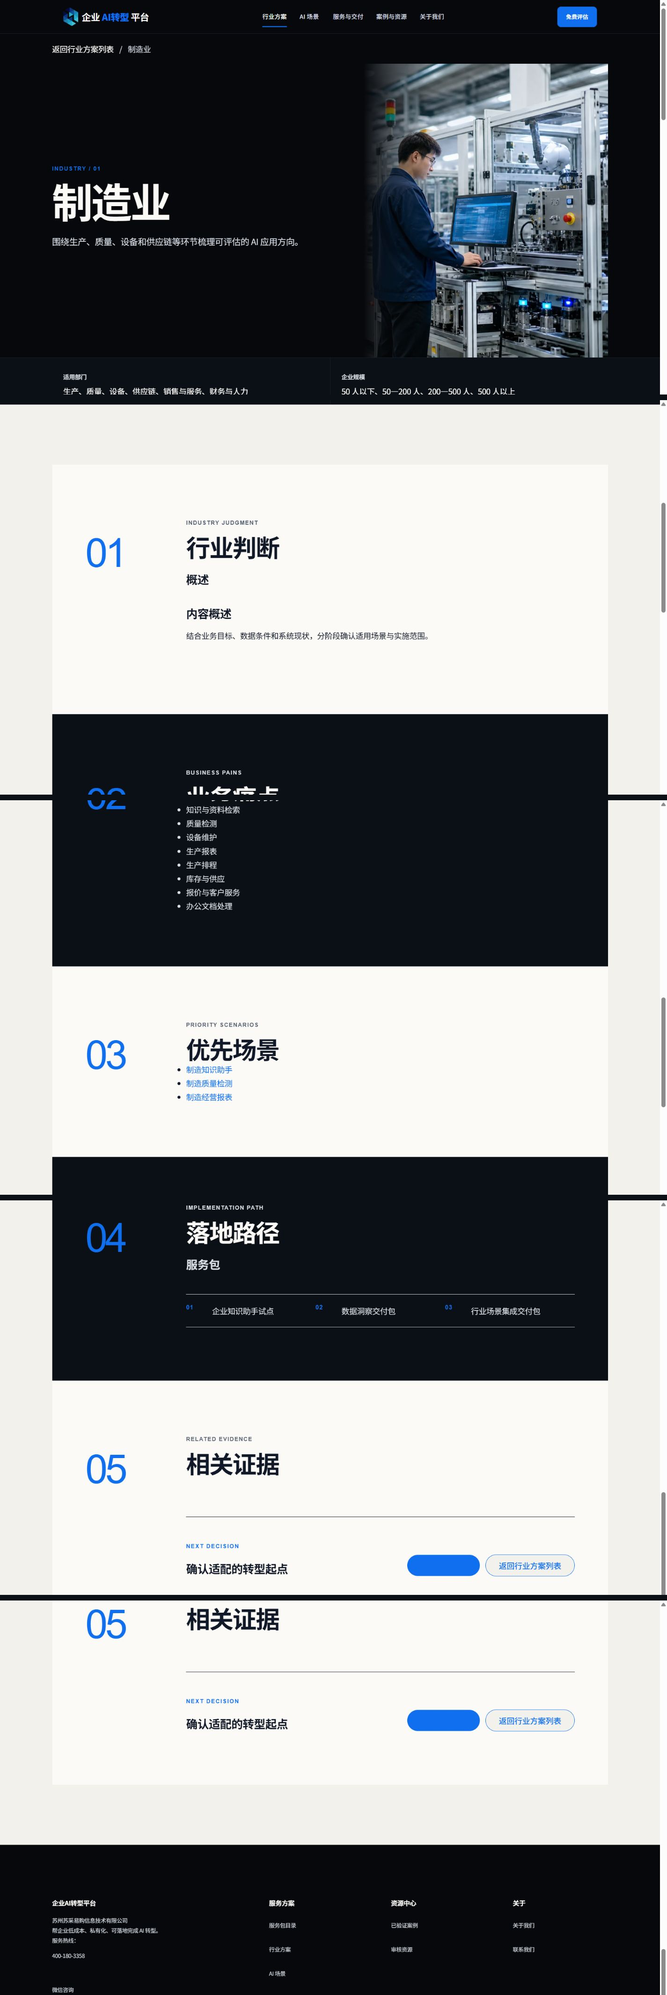
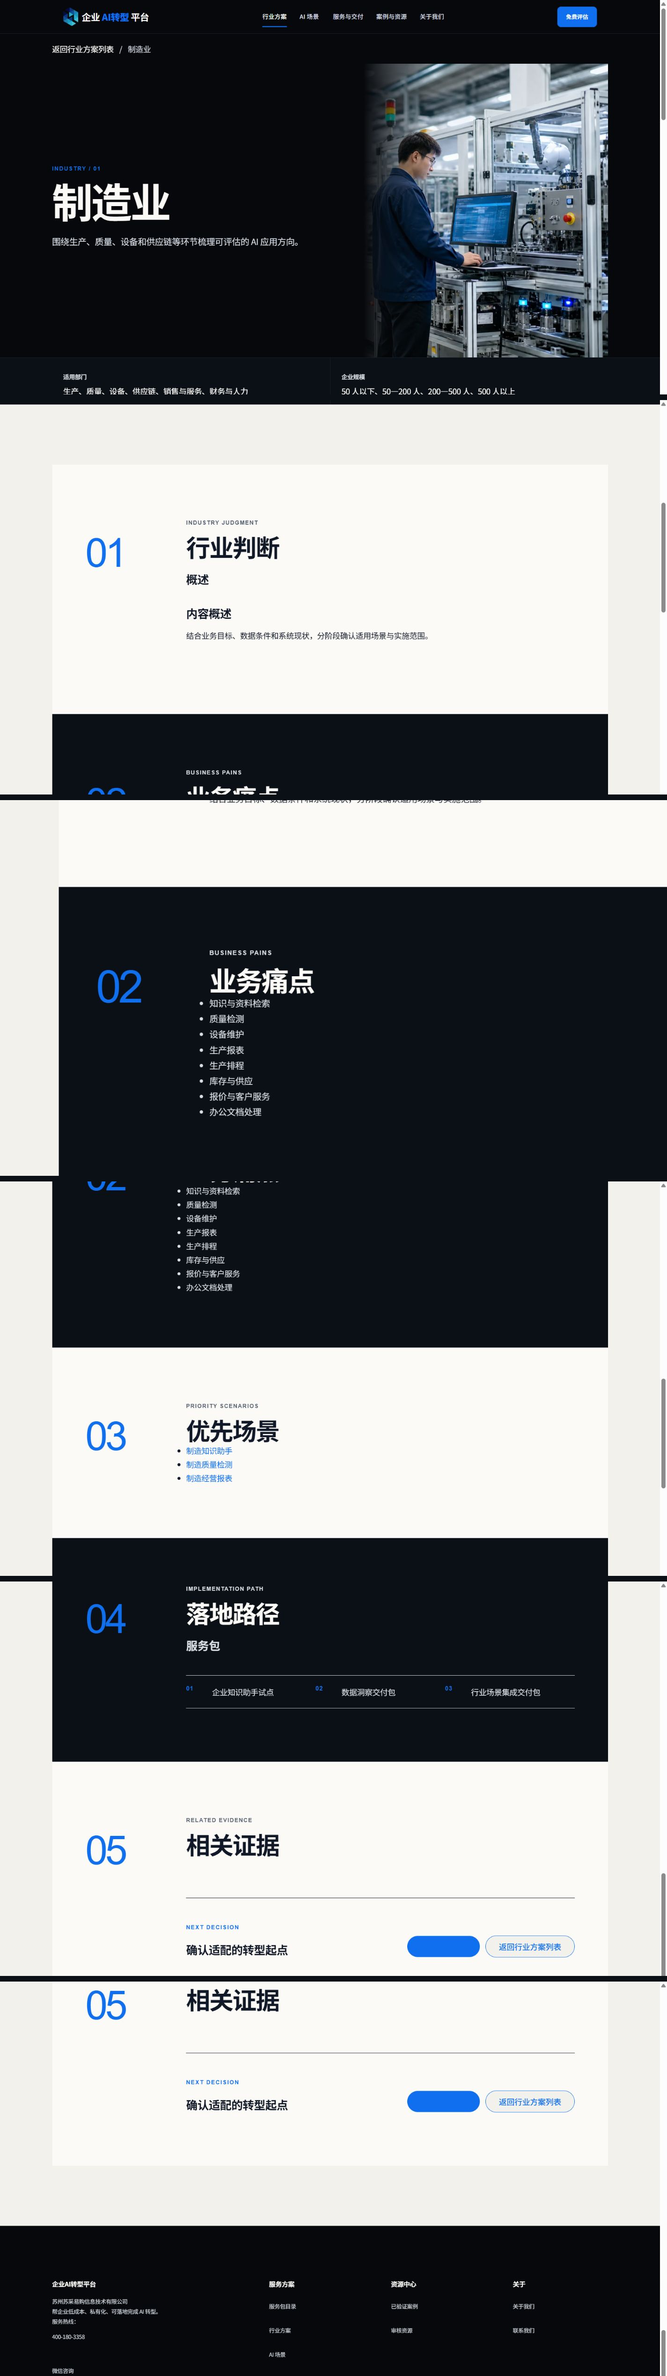
fix: close silver evidence public UI review findings

diff --git a/static/css/silver-evidence-public.css b/static/css/silver-evidence-public.css
@@ -474,8 +474,8 @@
 .decision-detail [data-decision-chapter] > h2 + section h3 { margin-top: 1.5rem; }
 .decision-detail [data-decision-chapter] p,
 .decision-detail [data-decision-chapter] li { line-height: 1.75; }
-.decision-detail [data-decision-chapter] a { color: var(--ui-signal-blue); }
-.decision-detail [data-decision-chapter]:nth-child(even) a { color: var(--ui-paper-000); text-decoration-color: var(--ui-signal-blue); }
+.decision-detail [data-decision-chapter] a:not(.btn) { color: var(--ui-signal-blue); }
+.decision-detail [data-decision-chapter]:nth-child(even) a:not(.btn) { color: var(--ui-paper-000); text-decoration-color: var(--ui-signal-blue); }
 
 .decision-detail .decision-subsection { margin-top: clamp(2rem, 4vw, 3.5rem); }
 .decision-detail .decision-subsection-grid { display: grid; grid-template-columns: repeat(2, minmax(0, 1fr)); gap: clamp(1.5rem, 4vw, 4rem); margin-top: clamp(2rem, 4vw, 3.5rem); }
@@ -656,6 +656,11 @@
     grid-template-columns: 2.75rem minmax(0, 1fr);
     gap: 1rem;
     padding-block: 2.5rem;
+  }
+  .public-shell .public-scenarios .scenario-signal-row .editorial-result-row__meta {
+    grid-column: 2;
+    min-width: 0;
+    width: auto;
   }
 }
 

diff --git a/tests/test_ui_foundations.py b/tests/test_ui_foundations.py
@@ -220,6 +220,18 @@ def _css_declarations(declarations):
     }
 
 
+def _css_specificity(selector):
+    """Return the CSS specificity tuple needed by the public layout contracts."""
+    without_not = selector.replace(":not(", "(")
+    ids = len(re.findall(r"#[a-zA-Z0-9_-]+", without_not))
+    class_like = len(re.findall(r"\.[a-zA-Z0-9_-]+|\[[^\]]+\]", without_not))
+    class_like += len(re.findall(r":(?!:)[a-zA-Z0-9_-]+", without_not))
+    elements = len(
+        re.findall(r"(?:^|[\s>+~(])([a-zA-Z][a-zA-Z0-9_-]*)", without_not)
+    )
+    return ids, class_like, elements
+
+
 def _contrast_ratio(foreground, background):
     def luminance(color):
         channels = [int(color[index : index + 2], 16) / 255 for index in (1, 3, 5)]
@@ -477,6 +489,44 @@ def test_decision_cta_accessible_name_matches_its_visible_label(client, db, path
     assert cta.get("aria-label") in (None, "获取适配建议")
 
 
+def test_decision_chapter_link_color_rules_do_not_override_primary_ctas(client, db):
+    """A later chapter-link rule must not turn a signal-blue CTA's text blue."""
+    db.execute(
+        "UPDATE content_items SET status='published', published_at='2026-08-24 10:00:00' "
+        "WHERE entry_type IN ('industry', 'scenario') AND status='draft'"
+    )
+    db.commit()
+    page = _page(client.get("/industries/manufacturing"))
+    cta = page.select_one(
+        '.decision-detail [data-decision-chapter] a.btn-primary[data-decision-primary-action]'
+    )
+    public_css = client.get("/static/css/public-pages.css").get_data(as_text=True)
+    silver_css = client.get("/static/css/silver-evidence-public.css").get_data(
+        as_text=True
+    )
+    ordinary_selector = ".decision-detail [data-decision-chapter] a:not(.btn)"
+    inverse_selector = (
+        ".decision-detail [data-decision-chapter]:nth-child(even) a:not(.btn)"
+    )
+
+    assert cta is not None
+    assert cta not in page.select(ordinary_selector)
+    assert cta not in page.select(inverse_selector)
+    assert _css_declarations(_css_rule(silver_css, ordinary_selector))["color"] == (
+        "var(--ui-signal-blue)"
+    )
+    assert _css_declarations(_css_rule(silver_css, inverse_selector))["color"] == (
+        "var(--ui-paper-000)"
+    )
+    for selector, expected_color in (
+        (".public-page .btn-primary", "var(--ui-surface-000)"),
+        (".public-page .btn-primary:hover", "var(--ui-graphite-950)"),
+        (".public-page .btn-primary:focus-visible", "var(--ui-graphite-950)"),
+    ):
+        declarations = _css_declarations(_css_rule(public_css, selector))
+        assert declarations["color"] == expected_color
+
+
 def test_shared_navigation_and_footer_use_readable_text_colors(client):
     """The shared shell keeps readable text on its paper and graphite surfaces."""
     tokens = client.get("/static/css/design-tokens.css").get_data(as_text=True)
@@ -574,6 +624,52 @@ def test_decision_detail_css_stacks_the_split_cover_and_fact_strip_on_narrow_scr
     assert fact_item["border-left"] == "0"
     assert desktop_fact_item["min-width"] == "0"
     assert desktop_fact_value["overflow-wrap"] == "anywhere"
+
+
+@pytest.mark.parametrize("viewport_width", (390, 320))
+def test_scenario_mobile_metadata_stays_in_the_body_column(client, db, viewport_width):
+    """At supported phone widths, scenario metadata cannot occupy the 2.75rem index rail."""
+    db.execute(
+        "UPDATE content_items SET status='published', published_at='2026-08-24 10:00:00' "
+        "WHERE entry_type='scenario' AND status='draft'"
+    )
+    db.commit()
+    page = _page(client.get("/scenarios"))
+    metadata = page.select_one(
+        ".public-scenarios .scenario-signal-row .editorial-result-row__meta"
+    )
+    legacy_css = client.get("/static/css/public-pages.css").get_data(as_text=True)
+    silver_css = client.get("/static/css/silver-evidence-public.css").get_data(
+        as_text=True
+    )
+    legacy_selector = (
+        ".public-scenarios .scenario-signal-row .catalog-card-meta"
+    )
+    corrected_selector = (
+        ".public-shell .public-scenarios .scenario-signal-row "
+        ".editorial-result-row__meta"
+    )
+    legacy_mobile = _css_declarations(
+        _css_rule_in_blocks(
+            _css_blocks(legacy_css, "@media (max-width: 767px)"), legacy_selector
+        )
+    )
+    corrected_mobile = _css_declarations(
+        _css_rule_in_blocks(
+            _css_blocks(silver_css, "@media (max-width: 767px)"),
+            corrected_selector,
+        )
+    )
+
+    assert viewport_width <= 767
+    assert metadata is not None
+    assert metadata.name == "dl"
+    assert metadata.select("div > dt + dd")
+    assert legacy_mobile["grid-column"] == "auto"
+    assert _css_specificity(corrected_selector) > _css_specificity(legacy_selector)
+    assert corrected_mobile["grid-column"] == "2"
+    assert corrected_mobile["min-width"] == "0"
+    assert corrected_mobile["width"] == "auto"
 
 
 def test_public_display_titles_balance_lines_and_widen_split_covers_at_large_viewports(client):

diff --git a/tests/test_verified_cases.py b/tests/test_verified_cases.py
@@ -9,6 +9,7 @@ from pypdf import PdfWriter
 import pytest
 
 import models
+import blueprints.public_catalog as public_catalog_blueprint
 import case_repository
 import publishing_repository
 from content_clock import SHANGHAI
@@ -420,8 +421,9 @@ def test_public_source_check_requires_auth_csrf_hash_lock_and_seven_day_freshnes
 
 
 def test_public_source_case_uses_the_exact_public_authenticity_label(
-    admin_client, db
+    admin_client, db, monkeypatch
 ):
+    monkeypatch.setattr(public_catalog_blueprint, "shanghai_now", lambda: NOW)
     source_url = "https://example.com/labeled-public-case"
     draft = _create_case(
         admin_client,

diff --git a/docs/testing/silver-evidence-public-ui.md b/docs/testing/silver-evidence-public-ui.md
@@ -5,7 +5,7 @@
 - Frozen plan base: `d5d8445f0ac1b4425db905062a63330e4764e165`.
 - Verification date: 2026-09-01 (Asia/Shanghai).
 - Surface: Codex in-app Browser only. Chrome, Computer Use, Playwright CLI, production, deployment, external networking, and the repository-wide full suite were not used.
-- Local fixture: `127.0.0.1:51838`; launcher PID `3792`; child listener PID `17188`.
+- Initial fixture: `127.0.0.1:51838`; launcher PID `3792`; child listener PID `17188`. Fix1 used a fresh fixture at `127.0.0.1:55844`, PID `30340`, with the same ignored database/media paths and mock-only source transport.
 - Disposable database/media: `.superpowers/sdd/2026-08-31-silver-evidence-public-ui/task6-browser.db` and `task6-media`.
 - All source checks used `MockSourceTransport`; the content clock was fixed to `2026-08-31T10:00:00+08:00`.
 - Runtime: Python `3.12.13`, Flask `3.1.3`, Werkzeug `3.1.8`, Pillow `12.3.0`, beautifulsoup4 `4.15.0`.
@@ -18,7 +18,7 @@
 $env:PYTHONPATH = (Resolve-Path '.superpowers\sdd\2026-08-24-content-catalog-publishing\local-deps').Path
 $py = 'D:\Codex干活\企业AI转型平台2.0升级\V0.2-server-snapshot-20260819\.venv\Scripts\python.exe'
 $tmpRoot = Join-Path $PWD '.superpowers\sdd\2026-08-31-silver-evidence-public-ui\test-tmp'
-& $py -m pytest tests/test_ui_foundations.py tests/test_public_catalog.py tests/test_public_services.py tests/test_verified_cases.py tests/test_resources_announcements.py tests/test_assessment_wizard.py tests/test_content_navigation.py tests/test_smoke.py tests/test_security_gaps.py tests/test_validation_and_errors.py -q -p no:cacheprovider --basetemp (Join-Path $tmpRoot 'task6-final-scoped-012')
+& $py -m pytest tests/test_ui_foundations.py tests/test_public_catalog.py tests/test_public_services.py tests/test_verified_cases.py tests/test_resources_announcements.py tests/test_assessment_wizard.py tests/test_content_navigation.py tests/test_smoke.py tests/test_security_gaps.py tests/test_validation_and_errors.py -q -p no:cacheprovider --basetemp (Join-Path $tmpRoot 'task6-fix1-final-scoped-017')
 node --check static/js/app.js
 node --check static/js/guided_story.js
 node --check static/js/public_reveal.js
@@ -26,10 +26,11 @@ node --check static/js/assessment.js
 node --test tests/js/app_runtime.test.js tests/js/guided_story_runtime.test.js tests/js/public_reveal_runtime.test.js tests/js/assessment_runtime.test.js tests/js/analytics_runtime.test.js
 ```
 
-- Python: `579 passed in 331.49s (0:05:31)`, exit `0`.
+- Fix1 full Python collection: `581 passed, 1 failed in 312.87s`, exit `1`. The sole failure was an independently reproduced test-clock defect: a source check fixed at `2026-08-25 10:00` expired exactly seven days later while the public request read the real `2026-09-01 11:34` clock, turning a label assertion into the expected fail-closed 404. Production code, the seven-day TTL, and business behavior were unchanged.
+- Authorized test-only clock stabilization fixed that one test's public clock to its existing `NOW`. The isolated test then passed (`1 passed in 0.83s`, `task6-fix1-clock-green-019`), and its complete file partition passed (`31 passed in 18.54s`, `task6-fix1-clock-partition-020`). Thus every one of the 582 collected scoped tests has fresh post-Fix1 pass evidence: 581 in the full run and the repaired case in the fresh partition.
 - Four Node syntax checks: exit `0` each.
-- Node runtime: `34` tests, `34` pass, `0` fail, `0` skipped/cancelled/todo, `duration_ms 325.7764`, exit `0`.
-- The Python run used command-scoped local dependencies, `-p no:cacheprovider`, and unique base temp `task6-final-scoped-012`.
+- Node runtime: `34` tests, `34` pass, `0` fail, `0` skipped/cancelled/todo, `duration_ms 283.0863`, exit `0`.
+- Every Python command used command-scoped local dependencies, `-p no:cacheprovider`, and a unique plan-owned base temp.
 
 The P2 typography contract was demonstrably test-first: its isolated RED failed with `KeyError: 'text-wrap'` (`1 failed in 1.66s`, exit `1`), then GREEN passed (`1 passed in 0.84s`, exit `0`) after the minimal shared CSS correction. Browser verification proved the affected scenario, services, case, and assessment headings/metric no longer leave isolated Chinese characters or horizontal overflow.
 
@@ -37,9 +38,9 @@ The P2 typography contract was demonstrably test-first: its isolated RED failed 
 
 The in-app Browser's `fullPage:true` compositor was rejected because it duplicated sticky/reveal layers and introduced false mobile gaps. DOM counts proved that the duplication was not present in the page. A CDP full-page experiment hung, was aborted, and wrote no file; it was not used again.
 
-Final evidence consists of genuine `fullPage:false` viewport frames captured with native CUA scrolling after `1100ms` initial settle and at least `1050ms` after every scroll. Every frame reported `scrollWidth === clientWidth`; actual scroll positions were within `1px` of their targets. Frames were preserved 1:1, without crop or scale, and placed vertically with a 12px `#0B1016` separator. The separator explicitly identifies frame boundaries; repeated sticky navigation/CTA/rails and 144px overlap are expected evidence-sheet behavior, not claimed seamless page content.
+Final evidence consists of genuine `fullPage:false` viewport frames captured with native CUA scrolling after `1100ms` initial settle and at least `1050ms` after every scroll. Every frame reported `scrollWidth === clientWidth`; actual scroll positions were within `1px` of their targets. Frames were preserved 1:1, without crop or scale, and placed vertically with a 12px `#0B1016` separator. The separator explicitly identifies frame boundaries; repeated sticky navigation/CTA/rails and overlap are expected evidence-sheet behavior, not claimed seamless page content. Fix1 recovered the original desktop frames only at those exact separator boundaries, inserted one new 1425×802 Browser frame for industry chapter 02 and one for service chapter 05, and left every original 1425×842 viewport frame unchanged.
 
-The Browser viewport was set to `1440×1024` or `390×844`. Saved viewport bitmap widths are `1425` and `375` because the Browser excludes its 15px vertical scrollbar from screenshot pixels. Full-height footer coverage is present in every evidence sheet. Three additional centered frames make the resource filter, case audit metadata band, and About chapter 01 wholly reviewable.
+The initial Browser viewport was set to `1440×1024` or `390×844`; its saved bitmaps were `1425×842` and `375×842`. During Fix1 the IAB desktop tab's physical capture surface remained 1425×802, so the two supplemental desktop frames retain that truthful height. The corrected mobile catalog was recaptured through the same IAB CDP session as eight genuine `Page.captureScreenshot` viewport images at 390×896, never as a full-page compositor image. Full-height footer coverage is present in every evidence sheet. Five centered supplemental frames now make the resource filter, case audit metadata band, About chapter 01, industry chapter 02, and service chapter 05 wholly reviewable.
 
 ## Route and evidence matrix
 
@@ -47,18 +48,18 @@ The Browser viewport was set to `1440×1024` or `390×844`. Saved viewport bitma
 |---|---:|---:|---|
 | `/` | 1440×1024 | 6 | `2026-08-31-silver-home-desktop.png` |
 | `/industries` | 1440×1024 | 3 | `2026-08-31-silver-industries-desktop.png` |
-| `/industries/manufacturing` | 1440×1024 | 5 | `2026-08-31-silver-industry-detail-desktop.png` |
+| `/industries/manufacturing` | 1440×1024 | 6 | `2026-08-31-silver-industry-detail-desktop.png` |
 | `/scenarios` | 1440×1024 | 6 | `2026-08-31-silver-scenarios-desktop.png` |
 | `/scenarios/mfg-knowledge-assistant` | 1440×1024 | 6 | `2026-08-31-silver-scenario-detail-desktop.png` |
 | `/service-packages` | 1440×1024 | 5 | `2026-08-31-silver-services-desktop.png` |
-| `/service-packages/foundation-workshop` | 1440×1024 | 7 | `2026-08-31-silver-service-detail-desktop.png` |
+| `/service-packages/foundation-workshop` | 1440×1024 | 8 | `2026-08-31-silver-service-detail-desktop.png` |
 | `/cases` | 1440×1024 | 2 | `2026-08-31-silver-cases-desktop.png` |
 | `/cases/verified-automation-case` | 1440×1024 | 5 | `2026-08-31-silver-case-detail-desktop.png` |
 | `/resources` | 1440×1024 | 4 | `2026-08-31-silver-resources-desktop.png` |
 | `/resources/external-evidence-dossier` | 1440×1024 | 3 | `2026-08-31-silver-resource-detail-desktop.png` |
 | `/assessment` | 1440×1024 | 3 | `2026-08-31-silver-assessment-desktop.png` |
 | `/about` | 1440×1024 | 5 | `2026-08-31-silver-about-desktop.png` |
-| `/scenarios` | 390×844 | 17 | `2026-08-31-silver-scenarios-mobile.png` |
+| `/scenarios` | 390×896 Fix1 capture | 8 | `2026-08-31-silver-scenarios-mobile.png` |
 | `/scenarios/mfg-knowledge-assistant` | 390×844 | 9 | `2026-08-31-silver-scenario-detail-mobile.png` |
 | `/assessment` | 390×844 | 4 | `2026-08-31-silver-assessment-mobile.png` |
 
@@ -73,14 +74,14 @@ The Browser viewport was set to `1440×1024` or `390×844`. Saved viewport bitma
[15 lines of base64/hex data omitted]
 
 All sixteen files have a PNG signature and were opened and inspected after final compositing.
@@ -92,7 +93,8 @@ All sixteen files have a PNG signature and were opened and inspected after final
 - The five list pages were compared together. They share the same 1280px alignment, dark art cover, warm-white editorial rows, thin rules, low radius, and single blue accent. Scenario/resource filters, service category boundaries, and the one-item case layout remain functionally distinct without reverting to a generic card matrix.
 - Industry/scenario/service decision details were compared together. All retain truthful fact strips and five numbered alternating chapters while allowing content-specific density and imagery.
 - Case/resource details, assessment, and About were compared together. Their review dossier, conversion wizard, and manifesto structures remain distinct but coherent through the same palette, typography, spacing, and line discipline.
-- Final judgment: no open P0, P1, or P2. The four heading/metric P2s found in the first comparison wave were closed through RED/GREEN plus fresh same-viewport and full-route evidence.
+- Fix1 closed two further P2s through fresh RED/GREEN and IAB evidence. Industry, scenario, and service primary decision CTAs compute to white `rgb(255,255,255)` text on signal-blue `rgb(15,111,239)` backgrounds. Scenario metadata at 390px occupies 298.4px with 210.4px `dd` values; at 320px it occupies 220.8px with 132.8px `dd` values. Both use `horizontal-tb`, naturally wrap, and keep `scrollWidth === clientWidth`.
+- Final judgment: no open P0, P1, or P2. The title/metric, CTA cascade, mobile metadata, and incomplete-frame P2s were closed through RED/GREEN plus fresh same-viewport and full-route evidence.
 
 ## Native interaction and accessibility truth
 
@@ -101,6 +103,8 @@ All sixteen files have a PNG signature and were opened and inspected after final
 | Responsive route structure | PASS | 25 representative route/viewport checks across 1440, 1024, 910, 390, and 320 each retained one `h1`, one `main`, one `nav`, and `scrollWidth === clientWidth`. |
 | Desktop navigation and real link journey | PASS | Scenario nav → `/scenarios` → title link → `/scenarios/mfg-knowledge-assistant`; service nav → `/service-packages`; case nav → `/cases` → title link → `/cases/verified-automation-case`; header assessment action → `/assessment`. These were real clicks, separate from the direct-navigation viewport matrix. |
 | Detail-to-assessment link | PASS | Scenario detail `获取适配建议` was clicked to `/assessment`, where the landing `h1` was `企业 AI 就绪度评估`. |
+| Decision CTA contrast | PASS | Industry, scenario, and service primary CTAs each compute to white text on signal-blue and remain approximately 157×46px with no horizontal overflow. |
+| Scenario mobile metadata | PASS | At 390 and 320, metadata occupies the body column, uses horizontal writing, retains useful `dd` width, and no longer forms per-character vertical columns. The eight-frame 390 sheet reaches the complete footer. |
 | Scenario filter | PASS | `manufacturing + pilot` returned 3 real rows. |
 | Scenario empty state and reset | PASS | `manufacturing + marketing + collaborate` returned 0 with the real empty state; clear/reset restored 12 rows. |
 | Resource filter | PASS | `guide` returned 3 real rows. |
@@ -119,14 +123,16 @@ All sixteen files have a PNG signature and were opened and inspected after final
 | Pagination | NOT PROVEN / not applicable to fixture | The deterministic fixture contains 12 scenarios while the UI's minimum `per_page` is 20, so it has no second page to exercise. |
 | Complete assessment next/back journey | NOT PROVEN | After industry selection, the disposable fixture returned `评估选项暂时无法加载`. The recoverable error and retained selection are proven; six-step advance/back is not. |
 
-The keyboard and zoom entries are capability limitations, not PASS claims. Automated runtime coverage (`579` Python and `34` Node tests) is supporting evidence only and is not substituted for native interaction.
+The keyboard and zoom entries are capability limitations, not PASS claims. Automated runtime coverage (all `582` scoped Python cases with fresh pass evidence and `34` Node tests) is supporting evidence only and is not substituted for native interaction.
 
 ## Cleanup
 
 - The in-app Browser reduced-motion override was reset (`matchMedia` false), the viewport emulation was reset, and the acceptance tab was closed.
 - Before stop, `netstat` identified only `127.0.0.1:51838 LISTENING 3792` for the fixture. PID `3792` was stopped precisely; the related launcher/runtime PID `17188` is also no longer alive.
 - Final proof: `ProcessAlive=False`, no `:51838` listener in `netstat`, and HTTP `/health` failed with a refused connection.
+- Fix1 cleanup: IAB `Emulation.clearDeviceMetricsOverride` returned `{}`, the QA tab returned `tab closed`, and no acceptance tab/override remained. `netstat` identified only `127.0.0.1:55844 LISTENING 30340`; that exact PID was stopped. Final proof was `ProcessAlive=False`, `ListenerPresent=False`, and HTTP refused the connection.
 - Exact plan-owned scratch paths were checked to resolve below `.superpowers/sdd/2026-08-31-silver-evidence-public-ui/`, then removed: `task6-browser.db` (plus absent `-wal`/`-shm` companions), `task6-media`, `task6-raw`, and `test-tmp`. Every target reports `exists_after=False`.
+- Fix1 also removed only the exact plan-owned `task6-browser` raw-capture directory after the three accepted evidence sheets were written and inspected. Helpers, reports, references, and accepted evidence were preserved.
 - Accepted `docs/design/evidence/*.png`, testing documentation, and the ignored Task 6 report/helpers were preserved. No broad deletion or production/external state was touched.
 
 ## Limitations

diff --git a/design-qa.md b/design-qa.md
@@ -25,10 +25,13 @@ Homepage/detail reference pairs were inspected in same-input native-pixel compar
 | P2 | Closed | Services title left `包` alone. | Same shared title contract; Browser proves balanced two-line desktop result. |
 | P2 | Closed | Case title left `例` alone and `8 小时 → 2 小时` isolated its last `时`. | Balanced editorial cover plus desktop-only metric nowrap; Browser proves balanced heading and one-line value. |
 | P2 | Closed | Assessment title produced an unbalanced final word/character at desktop/mobile. | Shared balanced title treatment; Browser proves two balanced lines at desktop and 390. |
+| P2 | Closed | Decision-detail chapter link color overrode the industry/scenario/service primary CTA foreground, producing blue text on blue. | Ordinary chapter links now use `a:not(.btn)`; rendered cascade tests pass and IAB computes all three primary CTAs to white `rgb(255,255,255)` on signal blue. |
+| P2 | Closed | Scenario metadata auto-placed into the 2.75rem sequence rail at 390px and wrapped character by character. | A higher-specificity mobile rule keeps metadata in column 2. CSS/DOM contracts cover 390 and 320; IAB proves horizontal writing, useful `dd` widths, no overflow, and natural row height. |
+| P2 | Closed | Industry chapter 02 and service chapter 05 lacked any complete viewport frame. | New centered `fullPage:false` Browser frames show each complete chapter heading; they were inserted 1:1 at explicit 12px sheet boundaries without changing original frame pixels. |
 | Evidence quality | Closed | Full-page compositor duplicated sticky/reveal regions and produced false mobile blanks. | Rejected compositor output. Genuine Browser viewport frames are preserved 1:1 with explicit 12px separators and overlap. |
-| Evidence quality | Closed | First segment round caught 700–800ms reveal transitions at 650ms. | All sixteen routes recaptured after 1100ms load and at least 1050ms per scroll; centered frames make resource filter, case meta, and About 01 fully visible. |
+| Evidence quality | Closed | First segment round caught 700–800ms reveal transitions at 650ms. | All sixteen routes recaptured after 1100ms load and at least 1050ms per scroll; centered frames make resource filter, case meta, About 01, industry 02, and service 05 fully visible. |
 
-The shared P2 correction was test-first: isolated RED `KeyError: 'text-wrap'`, then GREEN `1 passed`; the final full responsibility set is `579 passed`, and Node runtime is `34/34` pass. No open P0, P1, or P2 remains.
+The Fix1 CSS corrections were test-first: authoritative RED `3 failed`, focused GREEN `66 passed`. The full scoped collection then recorded 581 passes plus one repeatable seven-day test-clock expiry; after the authorized test-only clock pin, its singleton and complete 31-test partition passed. Every one of the 582 collected scoped Python cases therefore has fresh pass evidence, and Node runtime is `34/34` pass. No open P0, P1, or P2 remains.
 
 ## Interaction and accessibility truth
 
